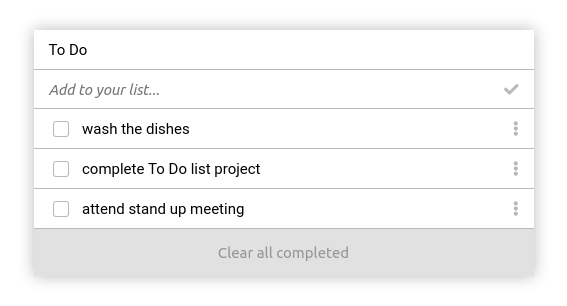
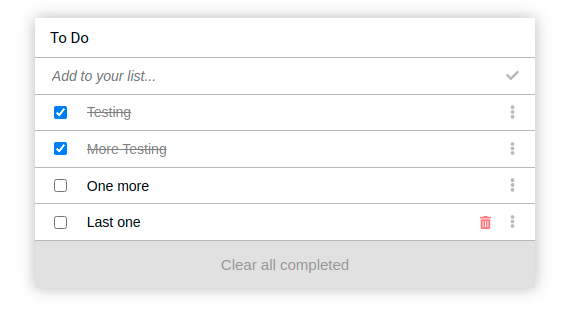
Fix some bugs

Changed region(s): [[0.06, 0.0882, 0.9594, 0.9118], [0.06, 0.0294, 0.8995, 0.0588], [0.3598, 0.7941, 0.6296, 0.8529]]

diff --git a/src/todo.js b/src/todo.js
@@ -22,19 +22,19 @@ function renderList() {
       // div .checkbox-description-container
     const checkDiv = document.createElement('div');
     checkDiv.classList.add('checkbox-description-container');
-    checkDiv.classList.add(`${todo.completed ? 'completed-task' : 'checkbox-description-container'}`);
     newTodo.appendChild(checkDiv);
-      // input-checkbox
+    // input-checkbox
     const checkbox = document.createElement('input');
     checkbox.classList.add('checkbox-input');
     checkbox.type = 'checkbox';
     checkbox.checked = (`${todo.completed ? 'true' : ''}`);
     checkDiv.appendChild(checkbox);
-      // input-description
+    // input-description
     const pDescription = document.createElement('input');
     pDescription.classList.add(`description-${todo.index}`);
     pDescription.value = todo.description;
     pDescription.classList.add('edit-input');
+    pDescription.classList.add(`${todo.completed ? 'completed-task' : 'checkbox-description-container'}`);
     checkDiv.appendChild(pDescription);
     pDescription.addEventListener('keydown', (e) => {
       const newDescription = pDescription.value;
